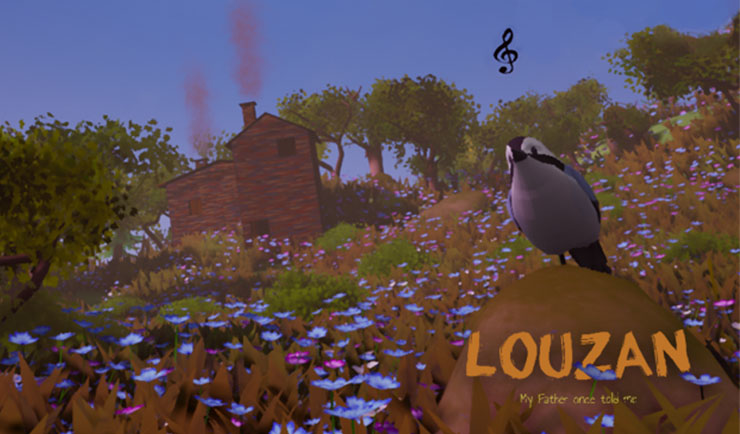
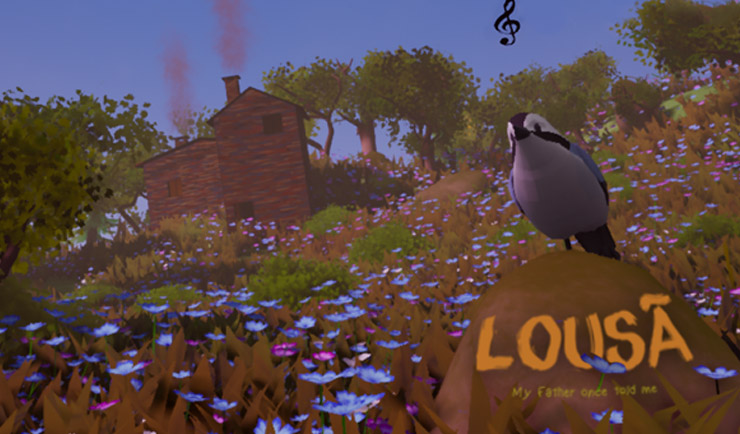
Louzan for Lousã

diff --git a/portfolio.html b/portfolio.html
@@ -63,10 +63,10 @@
 
 						<hr>
 
-						<!-- Louzan -->
+						<!-- Lousã -->
 
 						<section class="portfolioPiece">
-							<h2>Louzan: My Father once told me (Unreal Engine & Python)</h2>
+							<h2>Lousã: My Father once told me (Unreal Engine & Python)</h2>
 							<h4>Let's go hiking with dad, we might learn something. The Portuguese countryside is sure to heal any soul.</h4>
 							<div class="box alt">
 								<div class="row gtr-50 gtr-uniform">
@@ -78,7 +78,7 @@
 							</div>
 							<h4>My contributions</h4>
 							<ul class="smallBottomMargin">
-								<strong><li>Inverse kinematics systems for procedual animations</li>
+								<strong><li>Inverse kinematics systems for procedural animations</li>
 								<li>Implemented designer-friendly robust systems: Dialogue, Inventory & Save Systems</li>
 								<li>Automation tools for auto-asset managing and structure that reduced significantly the production time.</li>
 								<li>Gameplay, Automation and Debug Tools programming</li></strong>
@@ -139,7 +139,7 @@
 							<h4>My contributions</h4>
 							<ul class="smallBottomMargin">
 								<strong><li>Custom physics-based Character Controller</li>	
-								<li>Implemented Physical animations for procedual Hit Reactions</li>
+								<li>Implemented Physical animations for procedural Hit Reactions</li>
 								<li>Configurable robust AI Systems for melee and ranged enemies</li>
 								<li>Gameplay, AI and Debug Tools Programming</li></strong>
 							</ul>
@@ -168,7 +168,7 @@
 							</div>
 							<h4>My contributions</h4>
 							<ul class="smallBottomMargin">
-								<strong><li>Iterated the games alongside one of Voodoo's Publishing Managers under strict timelines</li>
+								<strong><li>Iterated the games alongside Voodoo's Publishing Managers under strict timelines</li>
 									<li>Implemented Facebook Analytics for Ad/promotional videos</li>
 									<li>Set up Game Analytics SDK and Voodoo SDK for managing players play time and sessions duration</li>
 									<li>Gameplay and UI Programming</li>

diff --git a/index.html b/index.html
@@ -44,7 +44,7 @@
 							</article>
 							<article class="col-6 col-12-xsmall work-item">
 								<a href="portfolio.html" class="image fit thumb"><img src="images/louzan/preview.jpg" alt="Louzan preview image" /></a>
-								<h3>Louzan (Unreal Engine & Python)</h3>
+								<h3>Lousã (Unreal Engine & Python)</h3>
 								<p> <strong>Relive</strong> the <strong>adventures</strong> of a <strong>father and son</strong> in <strong>Lousã, Portugal</strong>.</p>
 							</article>
 							<article class="col-6 col-12-xsmall work-item">
